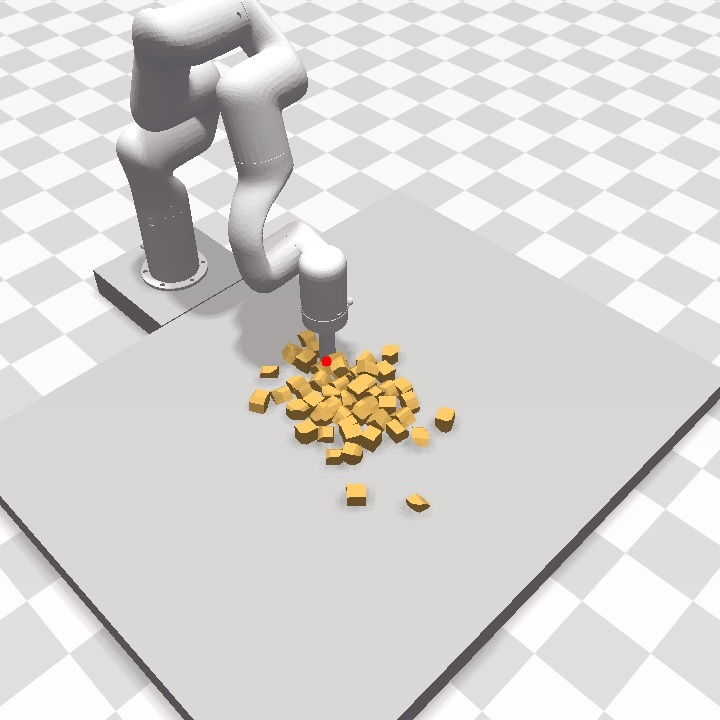
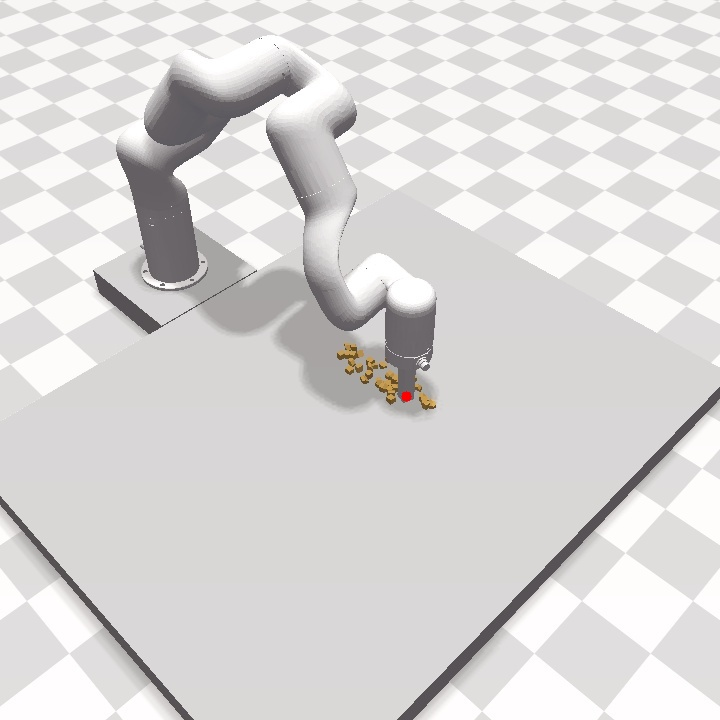
add point viz.

Changed region(s): [[0.1833, 0.0, 0.6417, 0.7028], [0.55, 0.6722, 0.6111, 0.7333]]

diff --git a/utils/points_viz.py b/utils/points_viz.py
@@ -1,6 +1,34 @@
 import numpy as np
 import cv2
 import os
+import glob
+import PIL.Image as Image
+
+def merge_video(image_path, video_path):
+    f_names = os.listdir(image_path)
+    image_names = []
+    for f_name in f_names:
+        if '_color.jpg' in f_name:
+            image_names.append(f_name)
+
+    image_names.sort(key=lambda x: int(x.split('_')[0]))
+        
+    # print(image_names)
+
+    fourcc = cv2.VideoWriter_fourcc('M', 'P', '4', 'V')
+    fps = 60
+
+    img = Image.open(os.path.join(image_path, image_names[0]))
+
+    video_writer = cv2.VideoWriter(video_path, fourcc, fps, img.size)
+
+    for img_name in image_names:
+        img = cv2.imread(os.path.join(image_path, img_name))
+        video_writer.write(img)
+
+    print("Video merged!")
+
+    video_writer.release()
 
 def viz_points_single_frame(img, points, cam_intr, cam_extr):
     
@@ -24,24 +52,58 @@ def viz_points_single_frame(img, points, cam_intr, cam_extr):
         cv2.circle(img, (int(points_proj[k, 0]), int(points_proj[k, 1])), point_size,
                    point_color, -1)
 
-    cv2.imwrite("point_viz.jpg", img)
- 
+    # cv2.imwrite("point_viz.jpg", img)
+    return img
+
+def viz_eef(episode_idx, data_dir, out_dir, cam_view=0):
+    
+    os.makedirs(out_dir, exist_ok=True)
+    
+    n_frames = len(list(glob.glob(os.path.join(data_dir, f"episode_{episode_idx}/camera_0/*_color.jpg"))))
+    print(f"Episode {episode_idx} has {n_frames} frames.")
+    eef_pos_path = os.path.join(data_dir, f"episode_{episode_idx}/eef_pos.npy")
+    eef_pos = np.load(eef_pos_path)
+    
+    cam_intr_path = os.path.join(data_dir, "camera_intrinsic_params.npy")
+    cam_extr_path = os.path.join(data_dir, "camera_extrinsic_matrix.npy")
+    cam_intrs, cam_extrs = np.load(cam_intr_path), np.load(cam_extr_path)
+    cam_intr, cam_extr = cam_intrs[cam_view], cam_extrs[cam_view]
+    
+    for i in range(n_frames):
+        raw_img_path = os.path.join(data_dir, f"episode_{episode_idx}/camera_{cam_view}/{i}_color.jpg")
+        raw_img = cv2.imread(raw_img_path)
+        eef_points = eef_pos[i].reshape((1, 3))
+        img = viz_points_single_frame(raw_img, eef_points, cam_intr, cam_extr)
+        cv2.imwrite(os.path.join(out_dir, f"{i}_color.jpg"), img)
+    
+    # make video
+    video_path = os.path.join(out_dir, f"episode_{episode_idx}.mp4")
+    merge_video(out_dir, video_path)
+    print(f"Video saved to {video_path}.")
+        
         
 if __name__ == "__main__":
     i = np.random.randint(0, 200)
-    img_path = f'/mnt/sda/data/carrots/episode_0/camera_0/{i}_color.jpg'
-    img = cv2.imread(img_path)
+    data_name = 'carrots_5'
+    epi_idx = 24
     
-    eef_points_path = '/mnt/sda/data/carrots/episode_0/eef_pos.npy'
-    eef_points = np.load(eef_points_path)
-    eef_points = eef_points[i]
-    # eef_points[1] -= 0.9
-    eef_points = eef_points.reshape((1, 3))
+    # img_path = f'/mnt/sda/data/{data_name}/episode_{epi_idx}/camera_0/{i}_color.jpg'
+    # img = cv2.imread(img_path)
     
-    cam_intr_path = '/mnt/sda/data/carrots/camera_intrinsic_params.npy'
-    cam_extr_path = '/mnt/sda/data/carrots/camera_extrinsic_matrix.npy'
-    cam_intr, cam_extr = np.load(cam_intr_path), np.load(cam_extr_path)
+    # eef_points_path = f'/mnt/sda/data/{data_name}/episode_{epi_idx}/eef_pos.npy'
+    # eef_points = np.load(eef_points_path)
+    # eef_points = eef_points[i]
+    # # eef_points[1] -= 0.9
+    # eef_points = eef_points.reshape((1, 3))
     
-    viz_points_single_frame(img, eef_points, cam_intr[0], cam_extr[0])
+    # cam_intr_path = f'/mnt/sda/data/{data_name}/camera_intrinsic_params.npy'
+    # cam_extr_path = f'/mnt/sda/data/{data_name}/camera_extrinsic_matrix.npy'
+    # cam_intr, cam_extr = np.load(cam_intr_path), np.load(cam_extr_path)
+    
+    # viz_points_single_frame(img, eef_points, cam_intr[0], cam_extr[0])
+    
+    data_dir = f'/mnt/sda/data/{data_name}'
+    out_dir = f'/mnt/sda/viz_eef/{data_name}'
+    viz_eef(epi_idx, data_dir, out_dir)
     
     

diff --git a/data_generation/data_gen_carrots.py b/data_generation/data_gen_carrots.py
@@ -26,9 +26,11 @@ def gen_data(info):
     
     idx_episode = info["epi"]
     debug = info["debug"]
+    dir_idx = info["dir_idx"]
+    granular_range = info["granular_range"]
 
     # create folder
-    folder_dir = os.path.join(data_dir, obj)
+    folder_dir = os.path.join(data_dir, "carrots_%d" % dir_idx)
     os.system('mkdir -p ' + folder_dir)
 
     # set env 
@@ -42,7 +44,9 @@ def gen_data(info):
         epi_dir = os.path.join(folder_dir, "episode_%d" % idx_episode)
         os.system("mkdir -p %s" % epi_dir)
         
-        particle_pos_list, eef_pos_list, step_list, contact_list = env.reset(dir=epi_dir)
+        particle_pos_list, eef_pos_list, step_list, contact_list = env.reset(dir=epi_dir, 
+                                                                             property_params=granular_range)
+        print("property_params:", granular_range)
         
         # save property
         property = env.get_property()
@@ -111,19 +115,26 @@ def gen_data(info):
     env.close()
 
 ###multiprocessing
-bases = [25, 50, 75, 100, 125, 150, 175]
-# bases = [0]
-for base in bases:
-    print("base:", base)
-    infos=[]
-    for i in range(n_worker):
-        info = {
-            "epi": base+i*n_episode//n_worker,
-            "debug": False,
-        }
-        infos.append(info)
-    pool = mp.Pool(processes=n_worker)
-    pool.map(gen_data, infos)
+dir_idx_list = [2, 3, 4]
+granular_range_list = np.array([[0.12, 0.14], [0.14, 0.16], [0.16, 0.18]])
+bases = [0, 25, 50, 75, 100, 125, 150, 175]
+
+for i in range(3):
+    dir_idx = dir_idx_list[i]
+    granular_range = granular_range_list[i]
+    for base in bases:
+        print("base:", base)
+        infos=[]
+        for i in range(n_worker):
+            info = {
+                "epi": base+i*n_episode//n_worker,
+                "debug": False,
+                "dir_idx": dir_idx,
+                "granular_range": granular_range,
+            }
+            infos.append(info)
+        pool = mp.Pool(processes=n_worker)
+        pool.map(gen_data, infos)
 
 
 # info = {

diff --git a/utils/temp_pcd.py b/utils/temp_pcd.py
@@ -1,23 +1,22 @@
 import numpy as np
+import open3d as o3d
 
-from data_generation.utils import pos2pcd, fps_to_pos, fps_with_idx
+from data_generation.utils import fps_with_idx
 
-pos_path = '/media/baoyu/sumsung/rope/episode_0/camera_0/0_particles.npy'
-particle_pos = np.load(pos_path)
-particle_pos = particle_pos.reshape(-1, 4)[:, :3]
+def pos2pcd(particle_pos, viz = False):
+    pcd = o3d.geometry.PointCloud()
+    pcd.points = o3d.utility.Vector3dVector(particle_pos)
+    if viz:
+        o3d.visualization.draw_geometries([pcd])
+    return pcd
+
+frame_id = 100
+pos_path = '/mnt/sda/data/carrots_5/episode_0/particles_pos.npy'
+particles_pos = np.load(pos_path)
+particle_pos = particles_pos[frame_id]
 print('particle pos shape: ', particle_pos.shape)
-# print('particle pos: ', particle_pos)
 
 pcd = pos2pcd(particle_pos, viz = True)
 print('num of points: ', len(pcd.points))
-# print('points: ', np.asarray(pcd.points))
+print('points: ', np.asarray(pcd.points))
 
-# particle_num_down = 100
-# downsampled_pos, dist = fps_to_pos(pcd, particle_num_down, viz = True)
-# print('downsampled pos shape: ', downsampled_pos.shape)
-# print('dist: ', dist)
-
-sampled_particle_pos, sampled_idx = fps_with_idx(particle_pos, 10000)
-print('sampled particle pos shape: ', sampled_particle_pos.shape)
-print('sampled idx: ', sampled_idx)
-pcd_down = pos2pcd(sampled_particle_pos, viz = True)

diff --git a/env/flex_env_carrots.py b/env/flex_env_carrots.py
@@ -164,13 +164,18 @@ class FlexEnv(gym.Env):
         if obj == 'carrots':
             radius = 0.03
     
-            num_granular_ft_x = rand_float(2, 10)
-            num_granular_ft_y = np.random.randint(2, 4)
-            num_granular_ft_z = rand_float(2, 10)
+            num_granular_ft_x = rand_int(2, 11)
+            num_granular_ft_y = rand_int(2, 4)
+            num_granular_ft_z = rand_int(2, 11)
             num_granular_ft = [num_granular_ft_x, num_granular_ft_y, num_granular_ft_z] 
             num_granular = int(num_granular_ft_x * num_granular_ft_y * num_granular_ft_z)
             
-            granular_scale = rand_float(0.1, 0.12) #rand_float(0.1, 0.2)
+            # if property_params == None:
+            #     granular_scale = rand_float(0.18, 0.2) #rand_float(0.1, 0.2)
+            # else:
+            granular_scale = rand_float(property_params[0], property_params[1])
+            
+            
             pos_granular = [-1.0, 1., -0.8]
             granular_dis = 0.1 #rand_float(0.1, 0.3)
 
